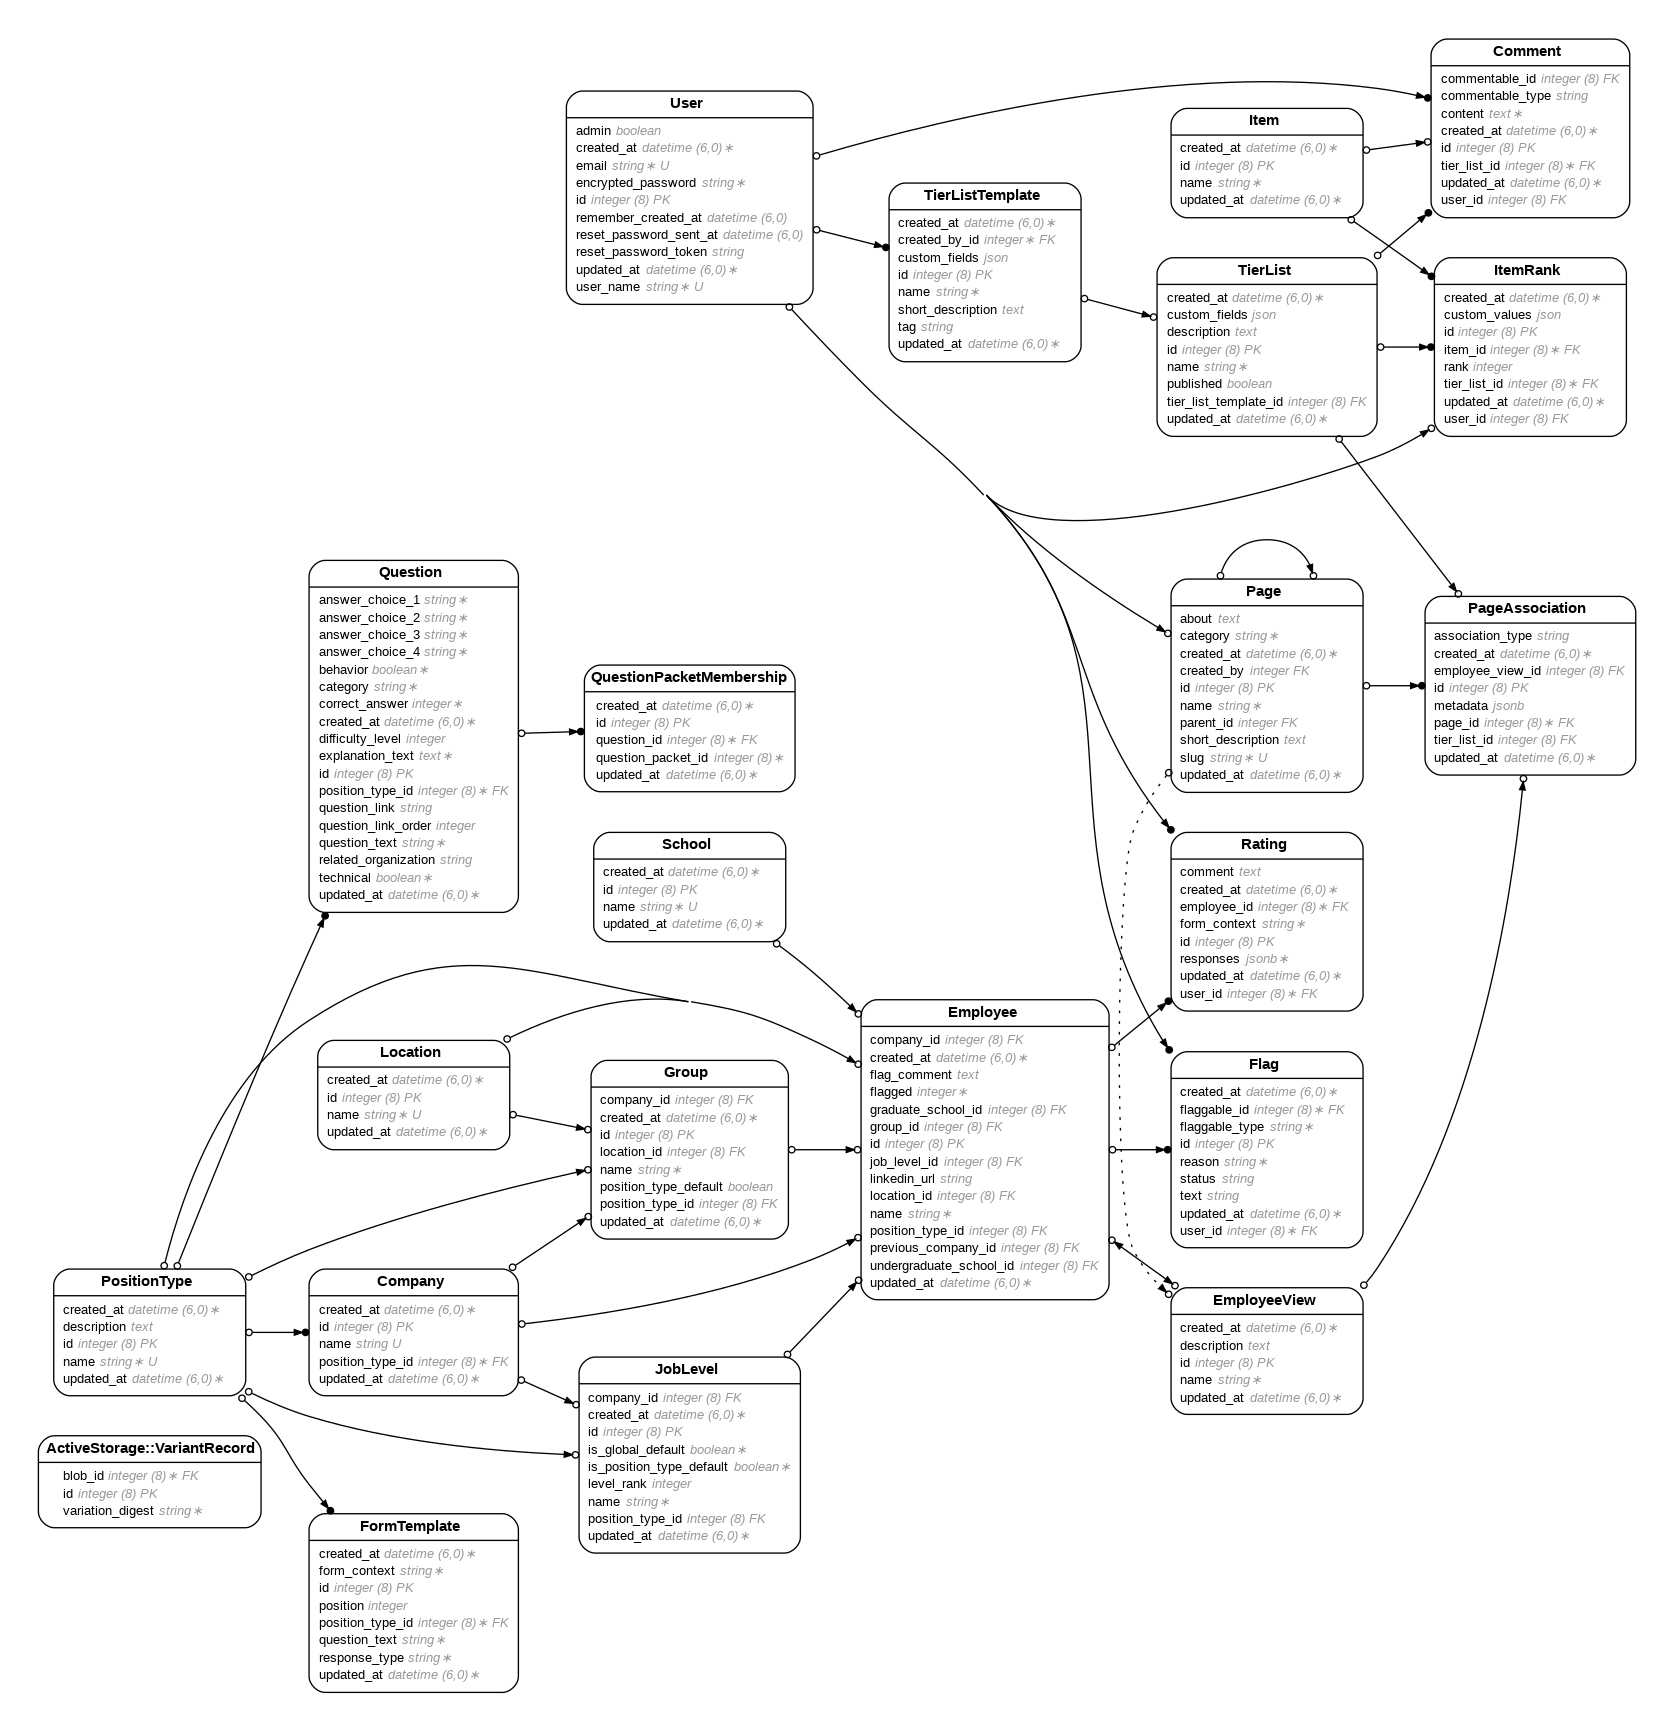
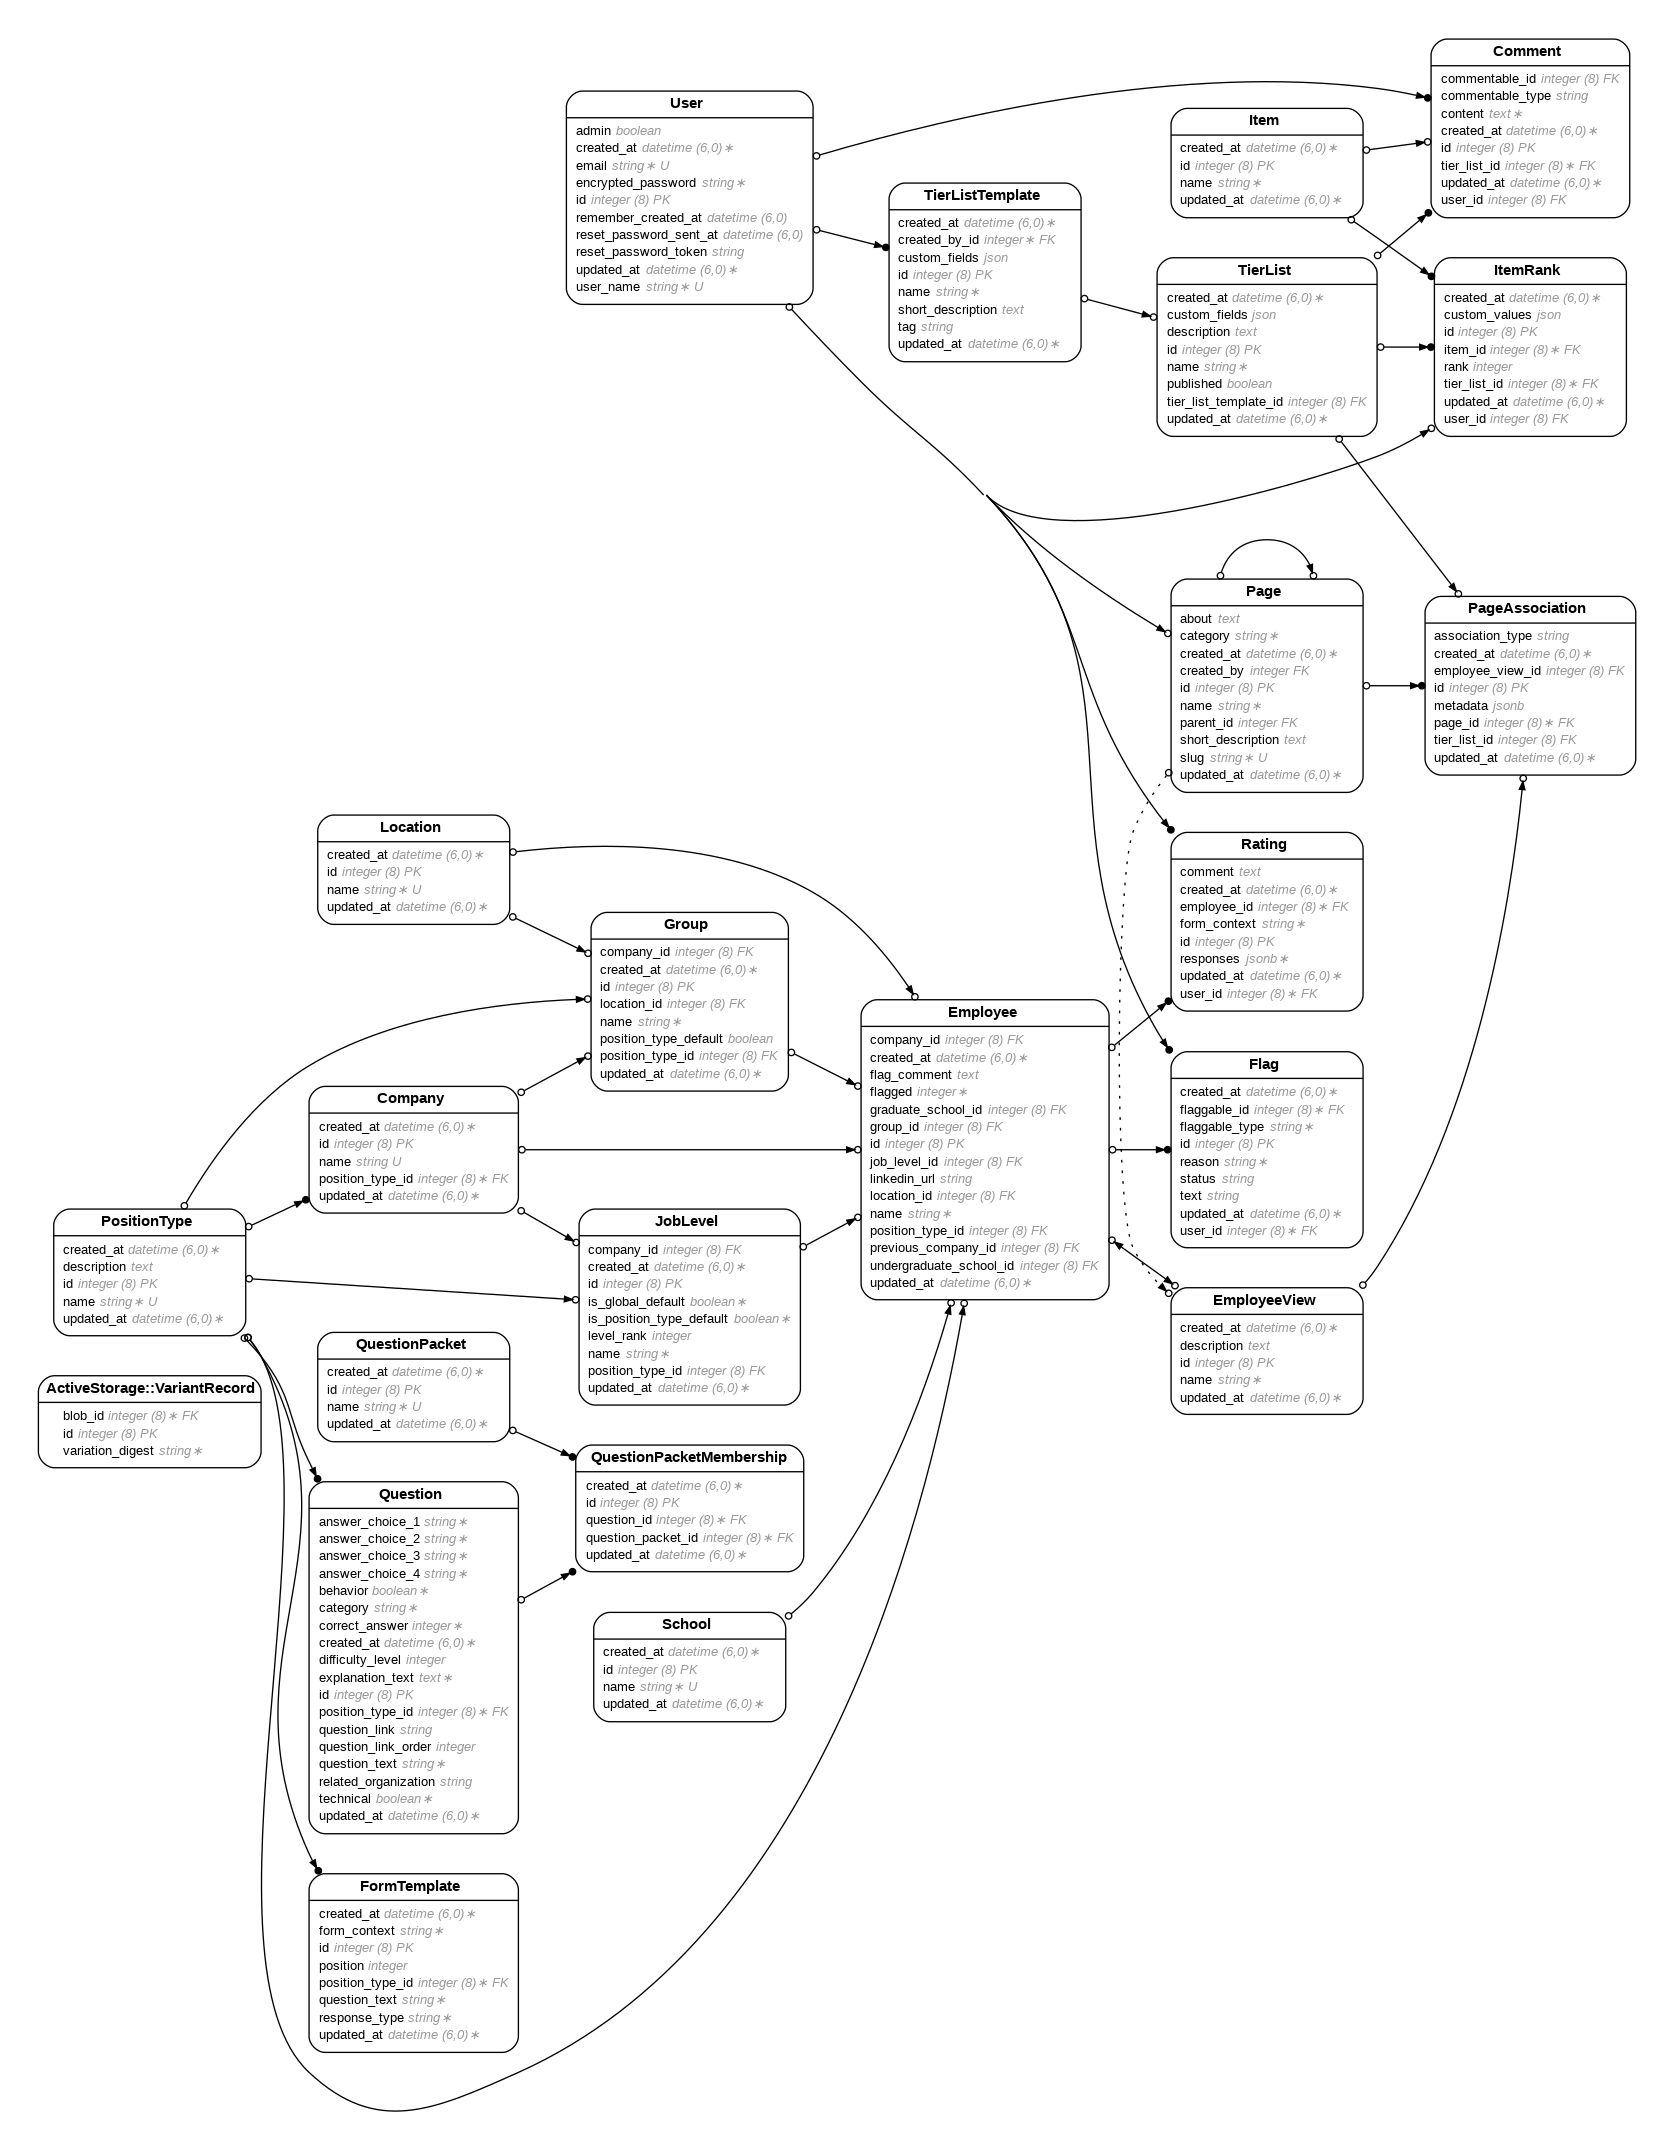
Updated the question to have star functionality for signed in users

diff --git a/db/schema.rb b/db/schema.rb
@@ -10,7 +10,7 @@
 #
 # It's strongly recommended that you check this file into your version control system.
 
-ActiveRecord::Schema[7.1].define(version: 2025_01_13_193142) do
+ActiveRecord::Schema[7.1].define(version: 2025_01_13_211357) do
   # These are extensions that must be enabled in order to support this database
   enable_extension "plpgsql"
 
@@ -257,6 +257,17 @@ ActiveRecord::Schema[7.1].define(version: 2025_01_13_193142) do
     t.index ["position_type_id"], name: "index_questions_on_position_type_id"
   end
 
+  create_table "questions_users", force: :cascade do |t|
+    t.bigint "question_id", null: false
+    t.bigint "user_id", null: false
+    t.boolean "starred", default: true
+    t.datetime "created_at", null: false
+    t.datetime "updated_at", null: false
+    t.index ["question_id", "user_id"], name: "index_questions_users_on_question_id_and_user_id", unique: true
+    t.index ["question_id"], name: "index_questions_users_on_question_id"
+    t.index ["user_id"], name: "index_questions_users_on_user_id"
+  end
+
   create_table "ratings", force: :cascade do |t|
     t.bigint "employee_id", null: false
     t.bigint "user_id", null: false
@@ -342,6 +353,8 @@ ActiveRecord::Schema[7.1].define(version: 2025_01_13_193142) do
   add_foreign_key "question_packet_memberships", "question_packets"
   add_foreign_key "question_packet_memberships", "questions"
   add_foreign_key "questions", "position_types"
+  add_foreign_key "questions_users", "questions"
+  add_foreign_key "questions_users", "users"
   add_foreign_key "ratings", "employees"
   add_foreign_key "ratings", "users"
   add_foreign_key "tier_lists", "tier_list_templates"

diff --git a/app/models/question.rb b/app/models/question.rb
@@ -32,6 +32,15 @@
 class Question < ApplicationRecord
   belongs_to :position_type
 
+  # Associations for starred questions
+  has_many :questions_users
+  has_many :users, through: :questions_users
+
+  # Associations for question packets
+  has_many :question_packet_memberships
+  has_many :question_packets, through: :question_packet_memberships
+
+  # Validations
   validates :question_text, :answer_choice_1, :answer_choice_2, :answer_choice_3, :answer_choice_4, :correct_answer, :explanation_text, :category, presence: true
   validates :correct_answer, inclusion: { in: 1..4 }
   validates :difficulty_level, inclusion: { in: 1..5 }, allow_nil: true

diff --git a/app/controllers/question_users_controller.rb b/app/controllers/question_users_controller.rb
@@ -1,0 +1,16 @@
+class QuestionsUsersController < ApplicationController
+  before_action :authenticate_user!
+
+  def toggle_star
+    @question = Question.find(params[:question_id])
+    questions_user = QuestionsUser.find_or_initialize_by(question: @question, user: current_user)
+
+    if questions_user.persisted?
+      questions_user.destroy
+      render json: { status: "unstarred" }, status: :ok
+    else
+      questions_user.save
+      render json: { status: "starred" }, status: :ok
+    end
+  end
+end

diff --git a/app/models/question_packet.rb b/app/models/question_packet.rb
@@ -1,3 +1,16 @@
+# == Schema Information
+#
+# Table name: question_packets
+#
+#  id         :bigint           not null, primary key
+#  name       :string           not null
+#  created_at :datetime         not null
+#  updated_at :datetime         not null
+#
+# Indexes
+#
+#  index_question_packets_on_name  (name) UNIQUE
+#
 class QuestionPacket < ApplicationRecord
   has_many :question_packet_memberships, dependent: :destroy
   has_many :questions, through: :question_packet_memberships

diff --git a/config/routes.rb b/config/routes.rb
@@ -155,6 +155,11 @@ Rails.application.routes.draw do
   # Public Routes for Viewing Interview Question Packets
   resources :question_packets, only: [:index, :show]
 
+  # For toggling star questions on or off
+  resources :questions_users, only: [] do
+    post :toggle_star, on: :collection
+  end
+
   
 
 

diff --git a/app/models/user.rb b/app/models/user.rb
@@ -27,6 +27,9 @@ class User < ApplicationRecord
 
   has_many :comments, dependent: :destroy
 
+  has_many :questions_users
+  has_many :questions, through: :questions_users
+
   devise :database_authenticatable, :registerable,
          :recoverable, :rememberable, :validatable
 

diff --git a/app/models/questions_user.rb b/app/models/questions_user.rb
@@ -1,0 +1,6 @@
+class QuestionsUser < ApplicationRecord
+  belongs_to :question
+  belongs_to :user
+
+  validates :question_id, uniqueness: { scope: :user_id }
+end
